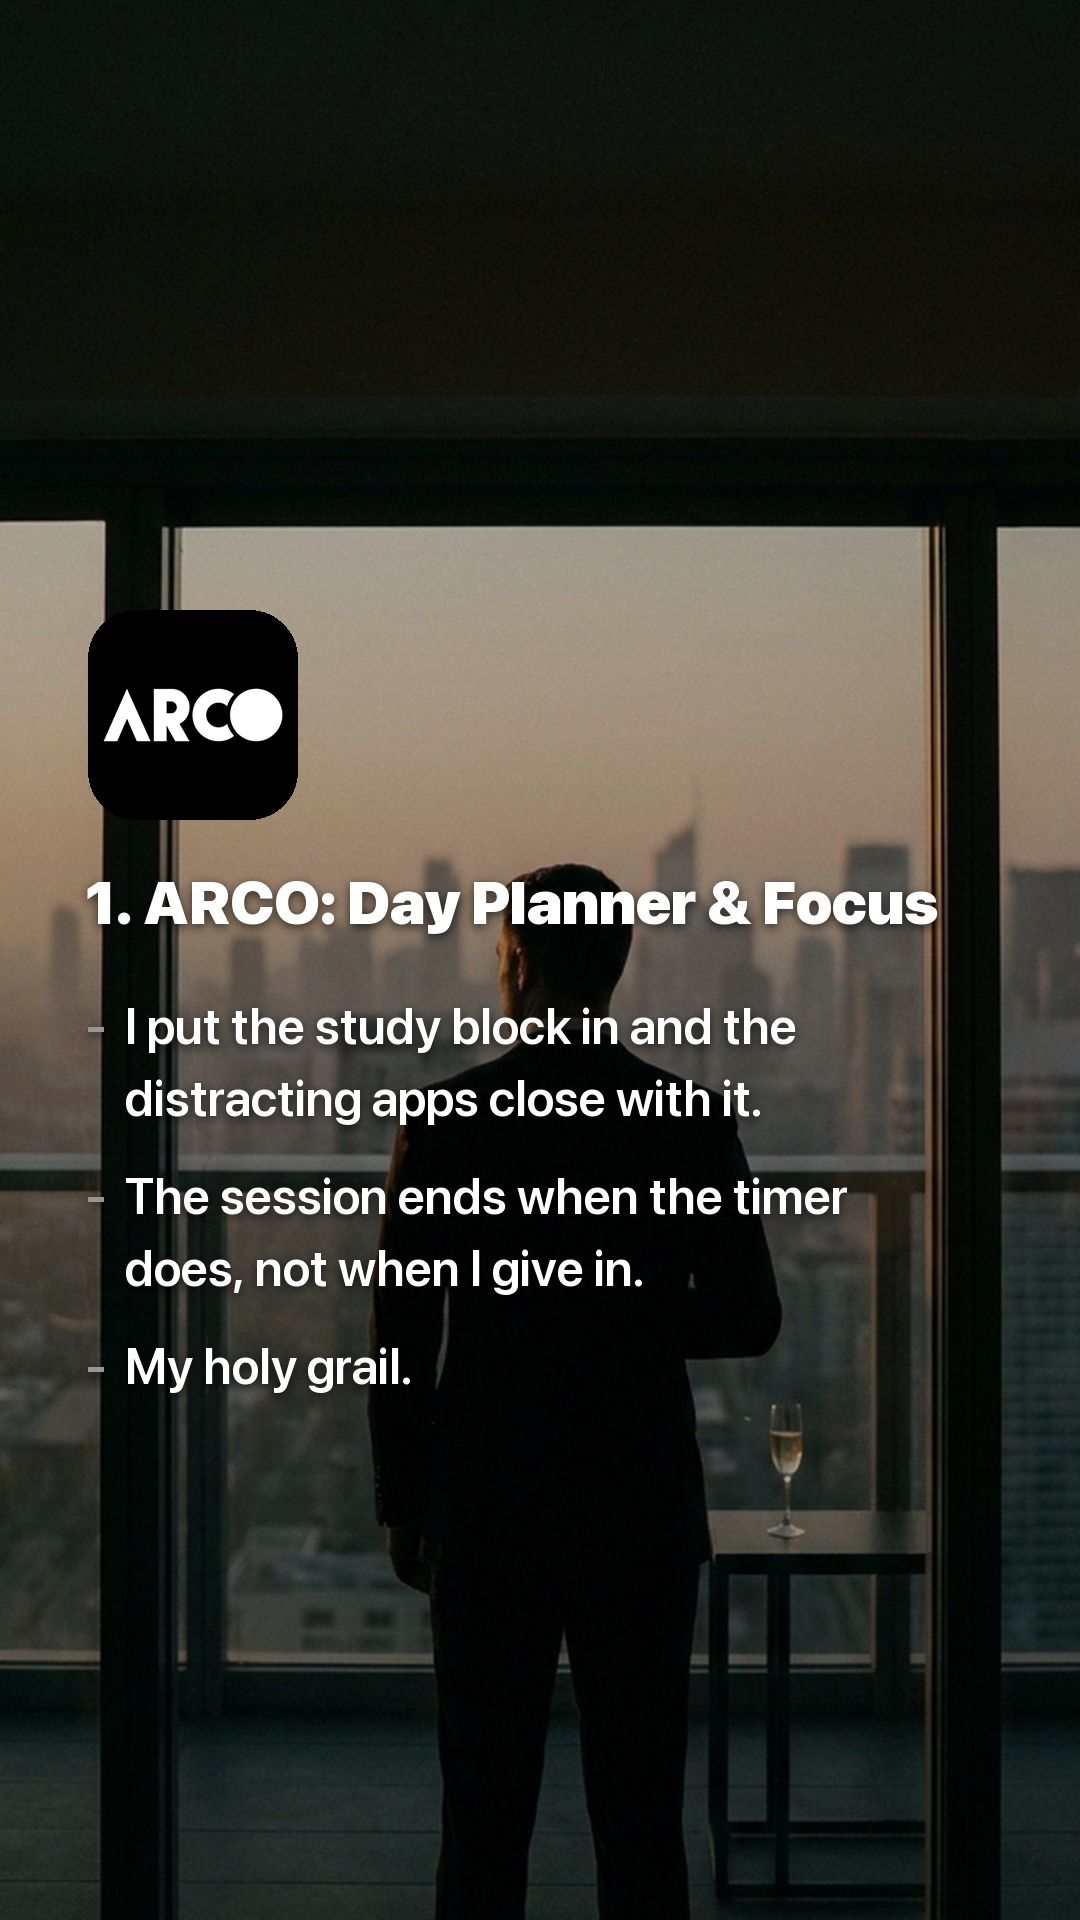
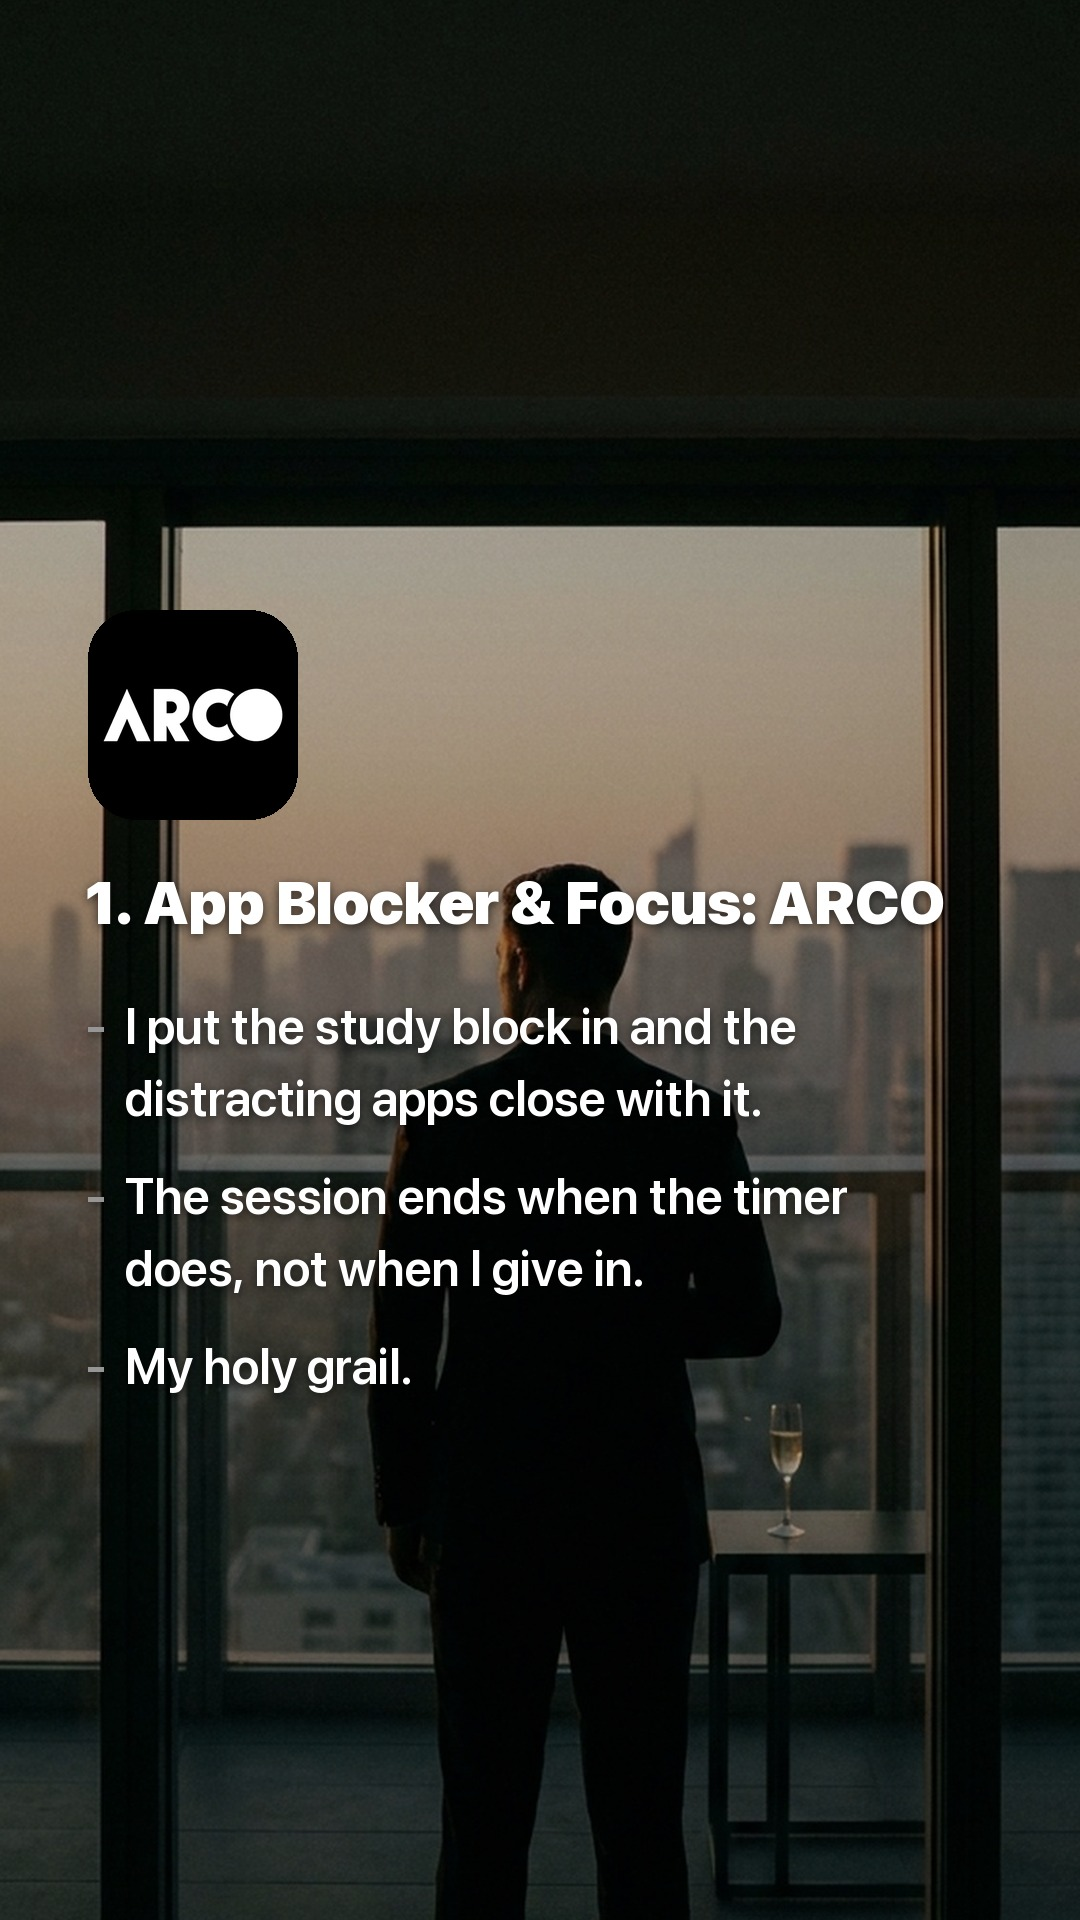
wish-i-knew-at-17-7: bright hook frame, current store name on the ARCO slide
The hook moves from bg-h79, a night LED desk, to bg-h52, a daylight desk
over the city. Slide 02's title becomes "1. App Blocker & Focus: ARCO",
the current listing name. The ARCO body is pinned to angle l1 so a
re-render no longer rotates the copy. Slides 03-06 are byte-identical.

The generator now logs the hook frame directly: pick_hook_bg ignores
prefer= while any night desk is unused, so it would have logged the wrong
frame.

Changed region(s): [[0.1833, 0.4375, 0.8861, 0.5]]

diff --git a/tools/gen-wish-i-knew-at-17-7.py b/tools/gen-wish-i-knew-at-17-7.py
@@ -27,12 +27,16 @@ lounge-night, so they have to sit at positions 1, 3 and 5 and the only choice
 left is which lounge-night leads. bg-h31 leads because it has the darkest copy
 band and slide 02 is the longest block in the post.
 
-  01 hook        bg-h79  desk-led-neon
+  01 hook        bg-h52  desk-city-day
   02 ARCO        bg-h32  window-silhouette  band luma 38.8, the one person
   03 Perplexity  bg-h36  supercars-dusk     band luma 20.3
   04 Notion      bg-n06  desk-empty-day     band luma 53.6
   05 Obsidian    bg-h88  supercars-dusk     band luma 28.2
   06 Canva       bg-n01  villa-day          band luma 66.3
+
+Redo: the hook moved from bg-h79 (night desk) to bg-h52, a bright
+day desk, and the ARCO title now carries the current store name,
+App Blocker & Focus: ARCO. Slides 03-06 are untouched.
 
 Usage:
     python3 tools/gen-wish-i-knew-at-17-7.py            # every slide
@@ -44,8 +48,8 @@ import sys
 
 sys.path.insert(0, '/Users/thinh/SIXSIX/arco-app/tools')
 import compose as c
-from compose import (app_slide, hook_slide, mark_hook_used, next_arco_angle,
-                     preflight, record_post_bgs, record_post_tools)
+from compose import (app_slide, hook_slide, mark_hook_used, preflight,
+                     record_post_bgs, record_post_tools)
 
 REPO = '/Users/thinh/SIXSIX/arco-app'
 TOPIC = 'wish-i-knew-at-17-7'
@@ -56,9 +60,12 @@ PILLAR = 'tools'
 # 17 means school, so ARCO answers on the study block and the apps that close
 # with it, not on planning a work day.
 THEME = 'study'
+# Pinned to the angle this post shipped with. next_arco_angle rotates on
+# every call, so a redo would otherwise swap the copy he already approved.
+ARCO_ANGLE = 'l1'
 
 TOOLS = ['ARCO', 'Perplexity', 'Notion', 'Obsidian', 'Canva']
-TITLES = ['1. ARCO: Day Planner & Focus', '2. Perplexity', '3. Notion',
+TITLES = ['1. App Blocker & Focus: ARCO', '2. Perplexity', '3. Notion',
           '4. Obsidian', '5. Canva']
 
 # Roster order, ARCO first. This is what the hook slide's shelf shows.
@@ -66,7 +73,7 @@ SHELF = ['icon-arco.png', 'icon-perplexity.png', 'icon-notion.jpg',
          'icon-obsidian.jpg', 'icon-canva.png']
 
 # index 0 is the hook, 1..5 are the app slides in order.
-BGS = ['bg-h79.jpg',   # 01 hook        desk-led-neon
+BGS = ['bg-h52.jpg',   # 01 hook        desk-city-day
        'bg-h32.jpg',   # 02 ARCO        window-silhouette  band luma 38.8
        'bg-h36.jpg',   # 03 Perplexity  supercars-dusk     band luma 20.3
        'bg-n06.jpg',   # 04 Notion      desk-empty-day     band luma 53.6
@@ -117,8 +124,11 @@ def main(only=None):
 
     if only in (None, 1):
         log = json.load(open(f'{c.SP}/hook_usage.json'))
+        # pick_hook_bg only honours prefer= once the night desks are used
+        # up, so a day frame chosen on purpose is logged directly.
         if BGS[0] not in log:
-            c.pick_hook_bg(prefer=BGS[0])
+            log.append(BGS[0])
+            json.dump(log, open(f'{c.SP}/hook_usage.json', 'w'), indent=1)
         hook_slide(BGS[0], HOOK, f'{OUT}/01.jpg', icons=SHELF)
         mark_hook_used(HOOK, TOPIC)
 
@@ -127,7 +137,13 @@ def main(only=None):
         n, bg = i + 1, BGS[i + 1]
         if only not in (None, n + 1):
             continue
-        body = next_arco_angle(THEME) if tool == 'ARCO' else BODY[tool]
+        if tool == 'ARCO':
+            angles = json.load(open(c.ARCO_ANGLES))['angles']
+            body = next(a['lines'] for a in angles if a['id'] == ARCO_ANGLE)
+            assert THEME in next(a['themes'] for a in angles
+                                 if a['id'] == ARCO_ANGLE)
+        else:
+            body = BODY[tool]
         app_slide(bg, icons[tool], TITLES[i], body, f'{OUT}/{n+1:02d}.jpg')
         print(f'  {bg}  {c.VIBES.get(bg):16s} band luma '
               f'{c.copy_band_luma(bg):.1f}')
